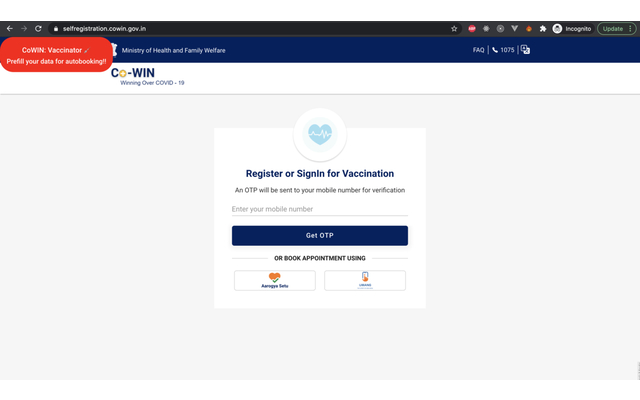
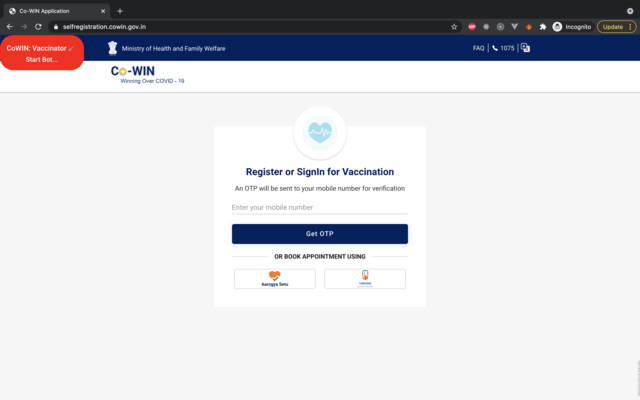
screenshots

diff --git a/src/script.js b/src/script.js
@@ -740,9 +740,7 @@ let vaccinatorFormData = {};
     container.appendChild(hr.cloneNode());
 
     const submitButton = button.cloneNode();
-    submitButton.appendChild(
-      document.createTextNode(vaccinatorFormData.start ? 'Searching for vaccine' : 'Book my vaccine')
-    );
+    submitButton.appendChild(document.createTextNode(vaccinatorFormData.start ? 'Stop Bot' : 'Book my vaccine'));
     submitButton.addEventListener('click', () => {
       console.log('Script Will Run: ', !vaccinatorFormData.start);
       setVaccinatorFormData('start', !vaccinatorFormData.start);
